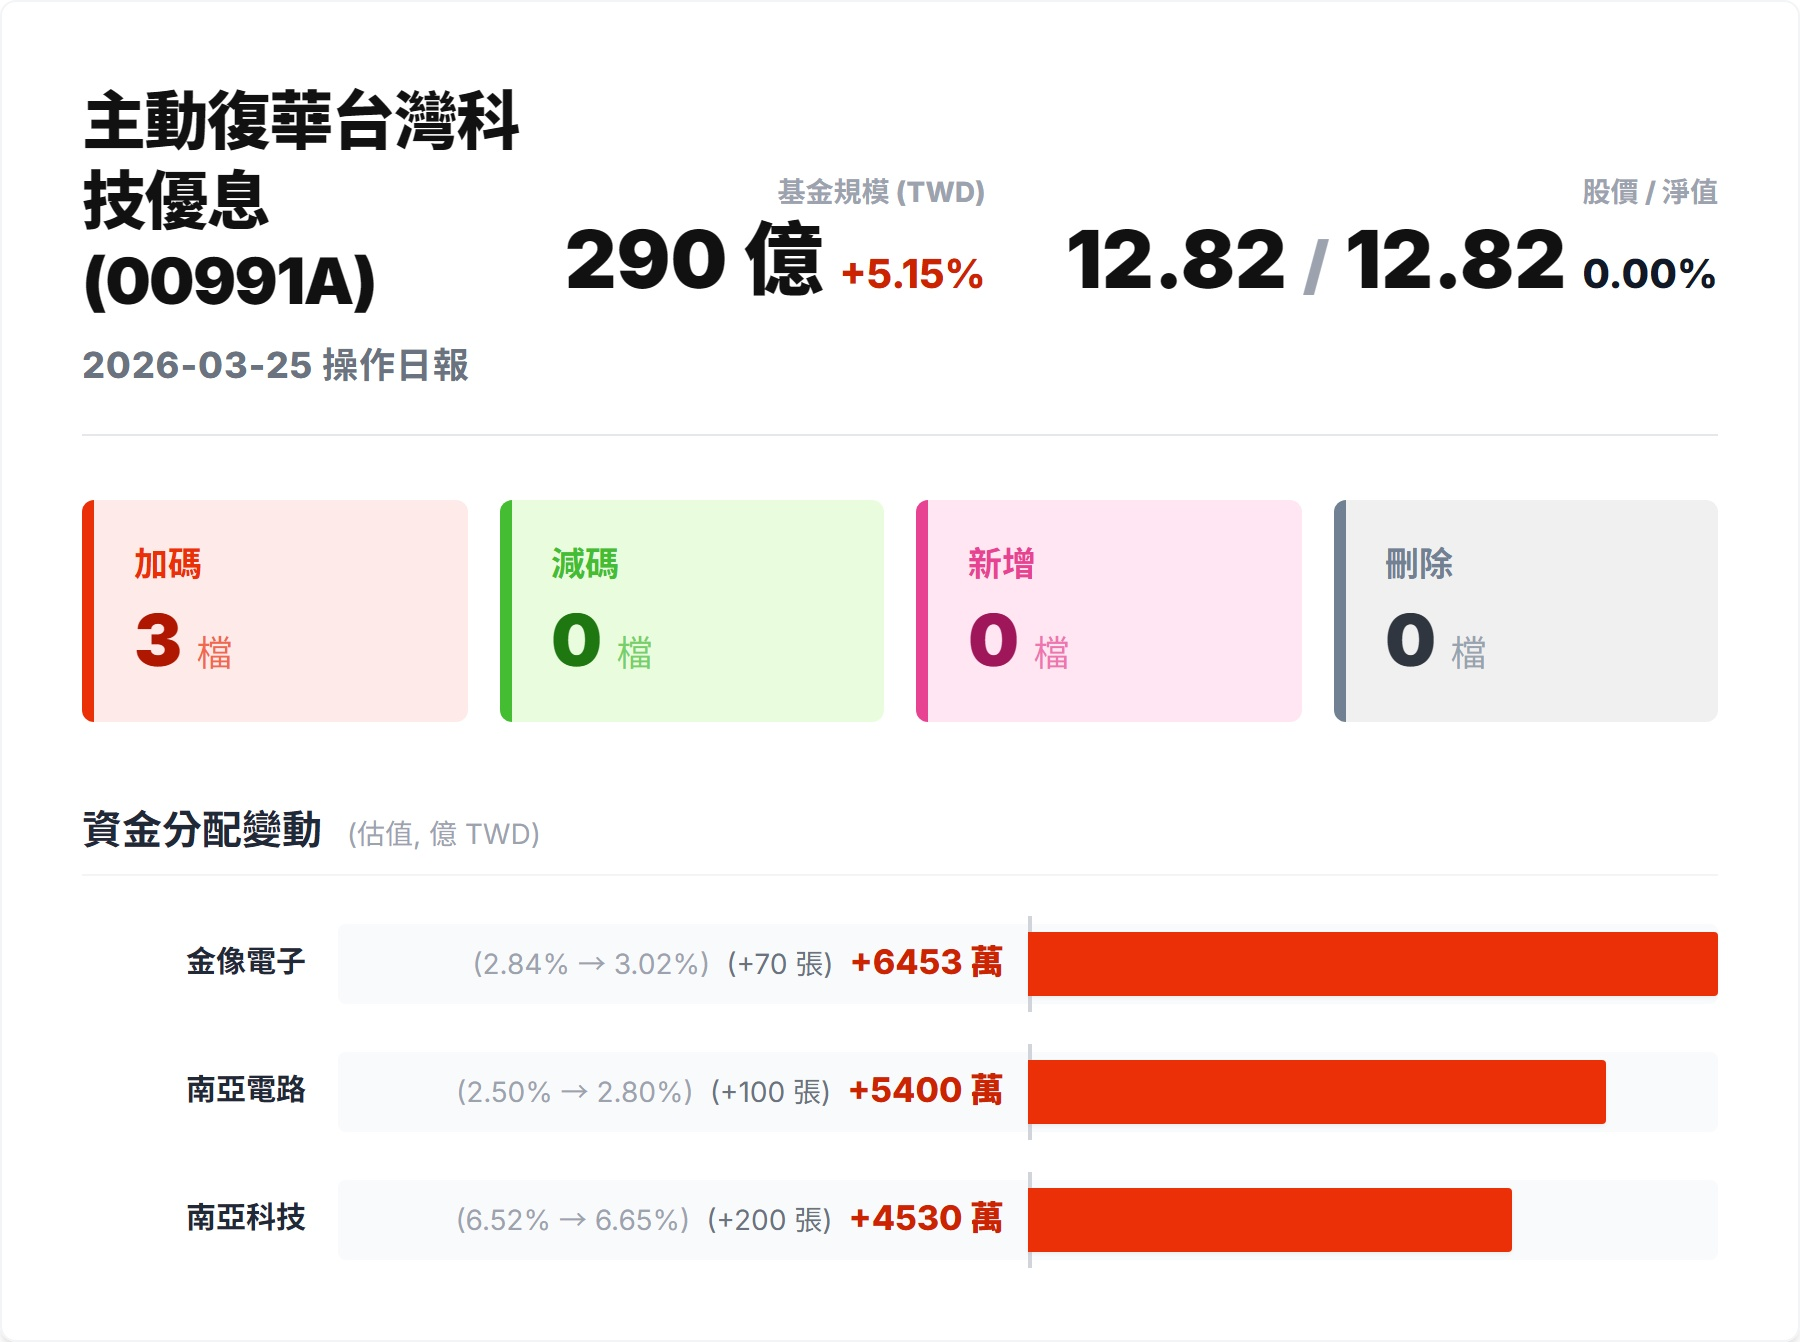
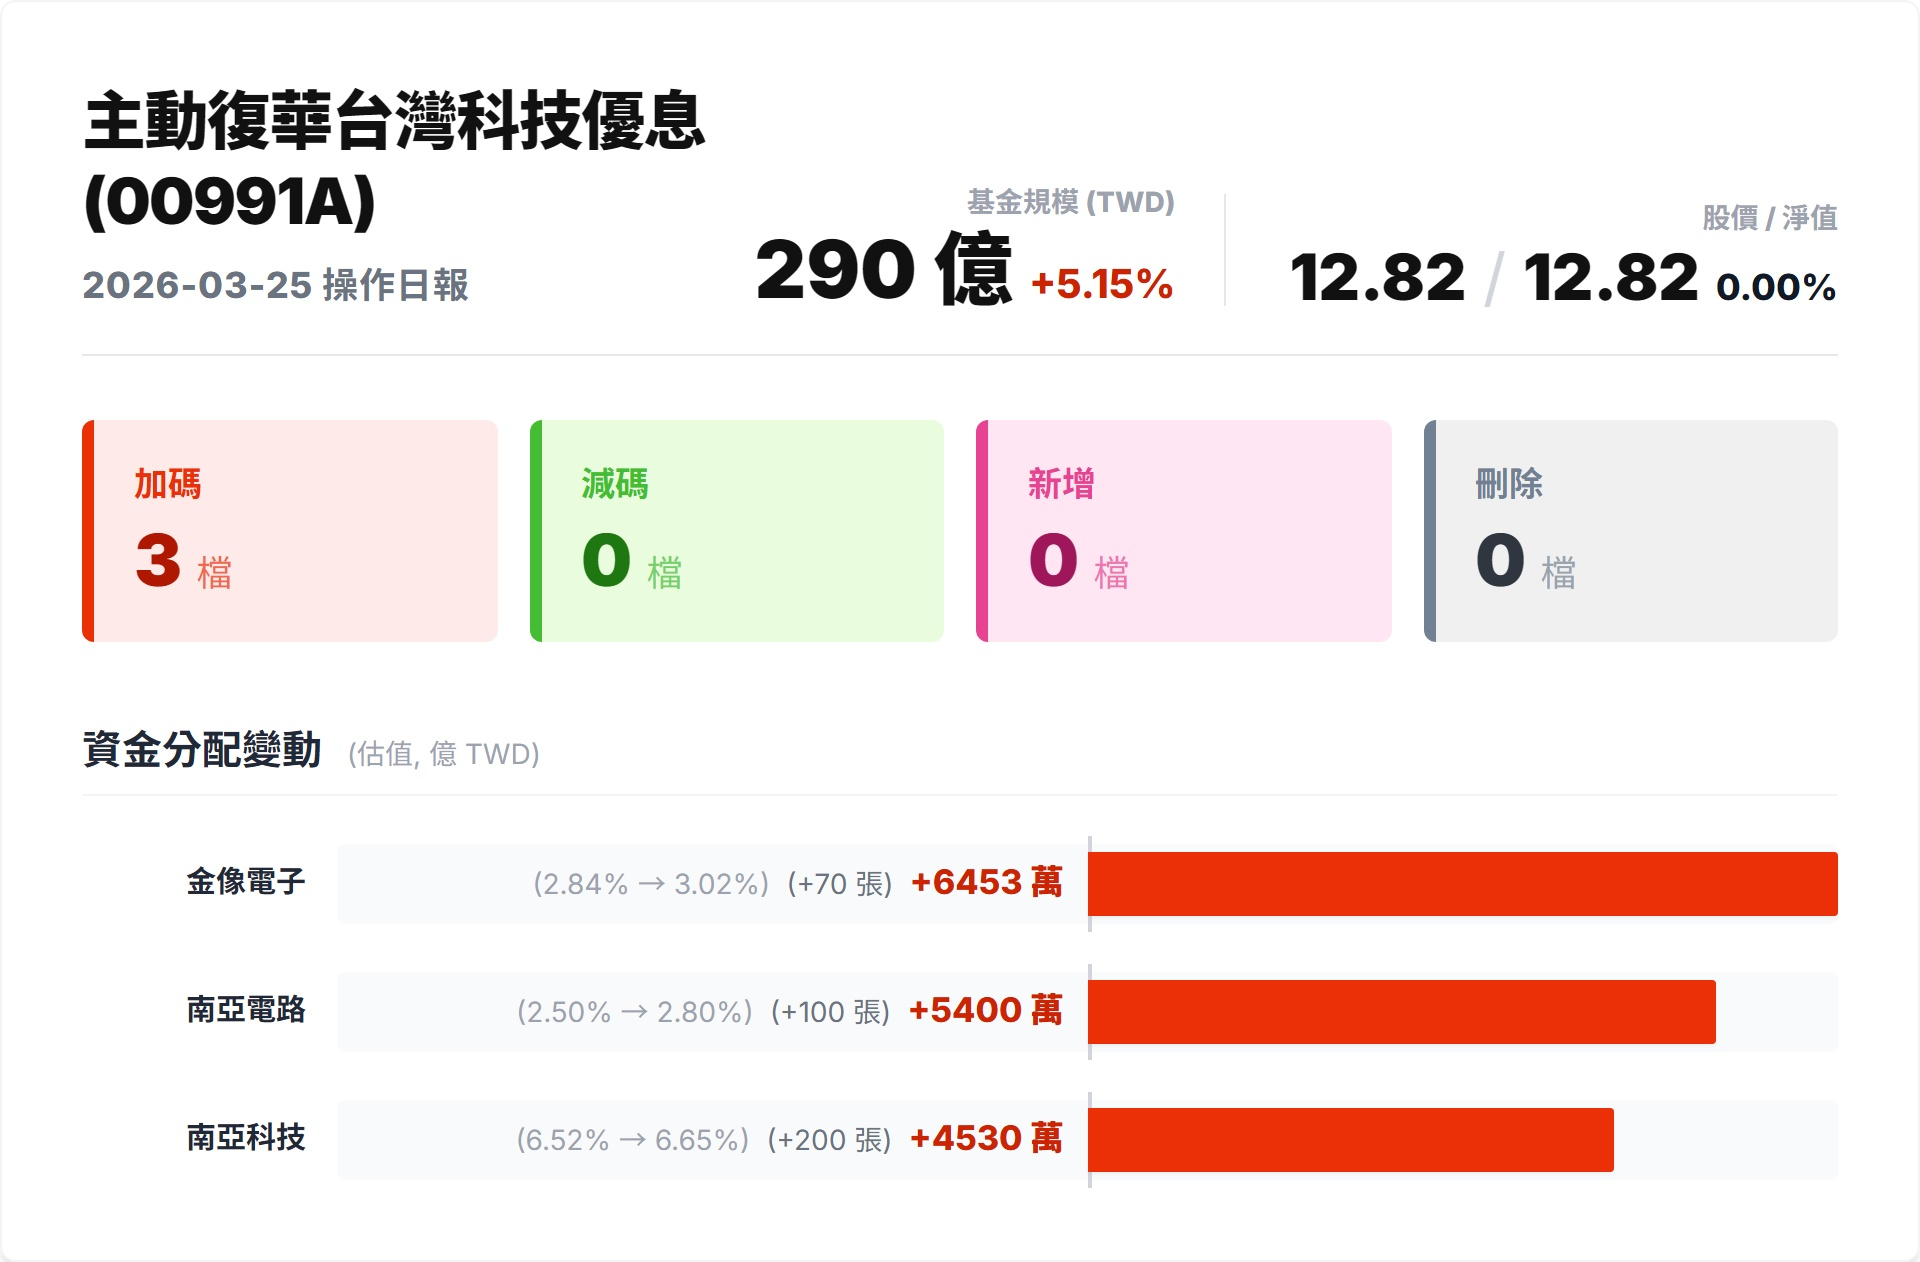
Refine header layout: widen canvas, shrink price/nav text, and add vertical separator line

diff --git a/scripts/generate_etf_summary.py b/scripts/generate_etf_summary.py
@@ -85,18 +85,22 @@ def render_html(title, data_curr, date_curr, data_prev, date_prev, out_html):
             body {{ font-family: 'Inter', 'Noto Sans TC', sans-serif; background-color: white; }}
         </style>
     </head>
-    <body class="p-10 w-[900px] bg-white text-gray-900 border border-gray-100 rounded-lg shadow-md">
+    <body class="p-10 w-[960px] bg-white text-gray-900 border border-gray-100 rounded-lg shadow-md">
         
         <!-- Header -->
-        <div class="flex flex-row justify-between items-center border-b border-gray-200 pb-5 mb-8">
-            <div class="w-1/2">
-                <h1 class="text-[32px] font-black text-[#111111] tracking-tight leading-tight mb-2">
+        <div class="flex flex-row justify-between items-end border-b border-gray-200 pb-5 mb-8">
+            <!-- Left: Titles -->
+            <div class="flex-1 pr-6">
+                <h1 class="text-[32px] font-black text-[#111111] tracking-tight leading-tight mb-2 whitespace-nowrap">
                     {name_part}<br>
                     {ticker_part}
                 </h1>
                 <p class="text-lg font-bold text-gray-500 tracking-wide">{date_curr} 操作日報</p>
             </div>
-            <div class="flex space-x-10 shrink-0">
+            
+            <!-- Right: Metrics -->
+            <div class="flex items-end space-x-6 shrink-0">
+                <!-- Metric 1: Fund Size -->
                 <div class="text-right">
                     <p class="text-sm font-bold text-gray-400 mb-1">基金規模 (TWD)</p>
                     <div class="flex items-baseline justify-end space-x-2">
@@ -104,11 +108,16 @@ def render_html(title, data_curr, date_curr, data_prev, date_prev, out_html):
                         <span class="text-[20px] font-bold {fs_color_class} whitespace-nowrap">{fs_diff_str}</span>
                     </div>
                 </div>
-                <div class="text-right">
+                
+                <!-- Separator -->
+                <div class="h-14 w-px bg-gray-200 mx-2 mb-1"></div>
+                
+                <!-- Metric 2: Price / NAV -->
+                <div class="text-right pl-2">
                     <p class="text-sm font-bold text-gray-400 mb-1">股價 / 淨值</p>
                     <div class="flex items-baseline justify-end space-x-2">
-                        <span class="text-[40px] leading-none font-black text-[#111111] whitespace-nowrap">{price_c:.2f} <span class="text-gray-400 text-[32px]">/</span> {nav_c:.2f}</span>
-                        <span class="text-[20px] font-bold {prem_color_class} whitespace-nowrap">{prem_str}</span>
+                        <span class="text-[32px] leading-none font-black text-[#111111] whitespace-nowrap">{price_c:.2f} <span class="text-gray-300 font-normal mx-0.5">/</span> {nav_c:.2f}</span>
+                        <span class="text-[18px] font-bold {prem_color_class} whitespace-nowrap">{prem_str}</span>
                     </div>
                 </div>
             </div>
